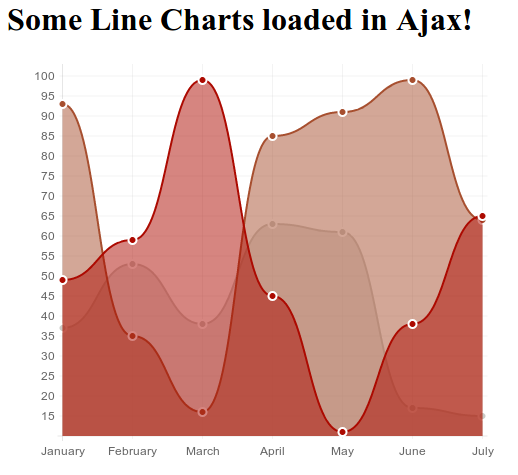
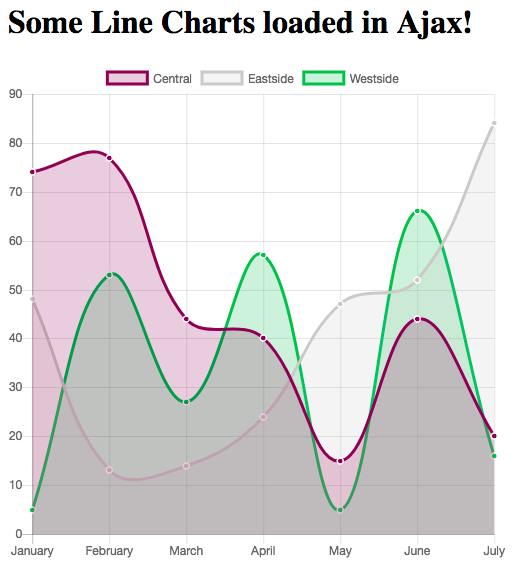
Update Chart.js demo for v2.5.0, add a HighCharts spline demo to the line chart page

diff --git a/demo/demoproject/templates/line_chart.html b/demo/demoproject/templates/line_chart.html
@@ -1,23 +1,46 @@
 {% load staticfiles %}
 <html>
-	<head>
-        <title>django-chartjs line chart demo</title>
-	<!--[if lte IE 8]>
-	    <script src="{% static 'js/excanvas.js' %}"></script>
-        <![endif]-->
-	</head>
-	<body>
-        <h1>Some Line Charts loaded in Ajax!</h1>
-        
-        <canvas id="myChart" width="500" height="400"></canvas>
+<head>
+  <title>django-chartjs line chart demo</title>
 
-        <script type="text/javascript" src="http://code.jquery.com/jquery-1.10.0.min.js"></script>
-        <script type="text/javascript" src="{% static 'js/Chart.min.js' %}"></script>
-        <script type="text/javascript">
-            $.get('{% url 'line_chart_json' %}', function(data) {
-                var ctx = $("#myChart").get(0).getContext("2d");
-                new Chart(ctx).Line(data);
-            });
-        </script>
-    </body>
+  <script type="text/javascript" src="http://code.jquery.com/jquery-1.10.0.min.js"></script>
+
+  <!--[if lte IE 8]>
+	<script src="{% static 'js/excanvas.js' %}"></script>
+  <![endif]-->
+</head>
+
+<body>
+  <h1>Some Line Charts loaded in Ajax!</h1>
+
+  <h2>Chart.js</h2>
+
+  <canvas id="myChart" width="500" height="500"></canvas>
+
+  <script type="text/javascript" src="{% static 'js/Chart.min.js' %}"></script>
+  <script type="text/javascript">
+      $.get('{% url 'line_chart_json' %}', function (data) {
+          var ctx = $("#myChart").get(0).getContext("2d");
+          new Chart(ctx, {
+              type: 'line',
+              data: data,
+              options: {
+                  responsive: false
+              }
+          });
+      });
+  </script>
+
+  <h2>HighCharts</h2>
+
+  <div id="myHighChart" style="height: 500px; width: 500px;"></div>
+
+  <script type="text/javascript" src="{% static 'js/highcharts/highcharts.js' %}"></script>
+  <script type="text/javascript">
+      $.get('{% url 'line_highchart_json' %}', function (data) {
+          data["chart"] = {type: "spline"};
+          $("#myHighChart").highcharts(data);
+      });
+  </script>
+</body>
 </html>

diff --git a/demo/demoproject/views.py b/demo/demoproject/views.py
@@ -20,6 +20,10 @@ class ColorsView(TemplateView):
 
 
 class ChartMixin(object):
+    def get_providers(self):
+        """Return names of datasets."""
+        return ["Central", "Eastside", "Westside"]
+
     def get_labels(self):
         """Return 7 labels."""
         return ["January", "February", "March", "April", "May", "June", "July"]
@@ -55,6 +59,9 @@ class LineChartJSONView(ChartMixin, BaseLineChartView):
 
 
 class LineHighChartJSONView(ChartMixin, HighchartPlotLineChartView):
+    title = _('Line HighChart Test')
+    y_axis_title = _('Kangaroos')
+
     # special - line charts credits are personalized
     credits = {
         'enabled': True,

diff --git a/chartjs/views/lines.py b/chartjs/views/lines.py
@@ -59,6 +59,7 @@ class HighchartPlotLineChartView(HighChartsView):
     def get_context_data(self):
         data = super(HighchartPlotLineChartView, self).get_context_data()
         data['labels'] = self.get_labels()
+        data['xAxis'] = {"categories": self.get_labels()}
         data['series'] = self.get_series()
         data['yAxis'] = self.get_y_axis_options()
         return data

diff --git a/README.rst b/README.rst
@@ -12,7 +12,7 @@ Django Chartjs lets you manage charts in your Django application.
    :target: https://pypi.python.org/pypi/django-chartjs/1.1
 
 
-This is compatible with Chart.js and Highcharts JS librairies.
+This is compatible with Chart.js and Highcharts JS libraries.
 
 Using a set of predefined Class Based Views you are able to get
 started after writing just your SQL query.
@@ -116,6 +116,6 @@ A simple Line Chart example.
 
 It is that simple!
 
-For other examples, don't hesitate to look at the demo project.
+For other examples including a HighCharts line chart, don't hesitate to look at the demo project.
 
 Also, feel free to contribute your demo!
